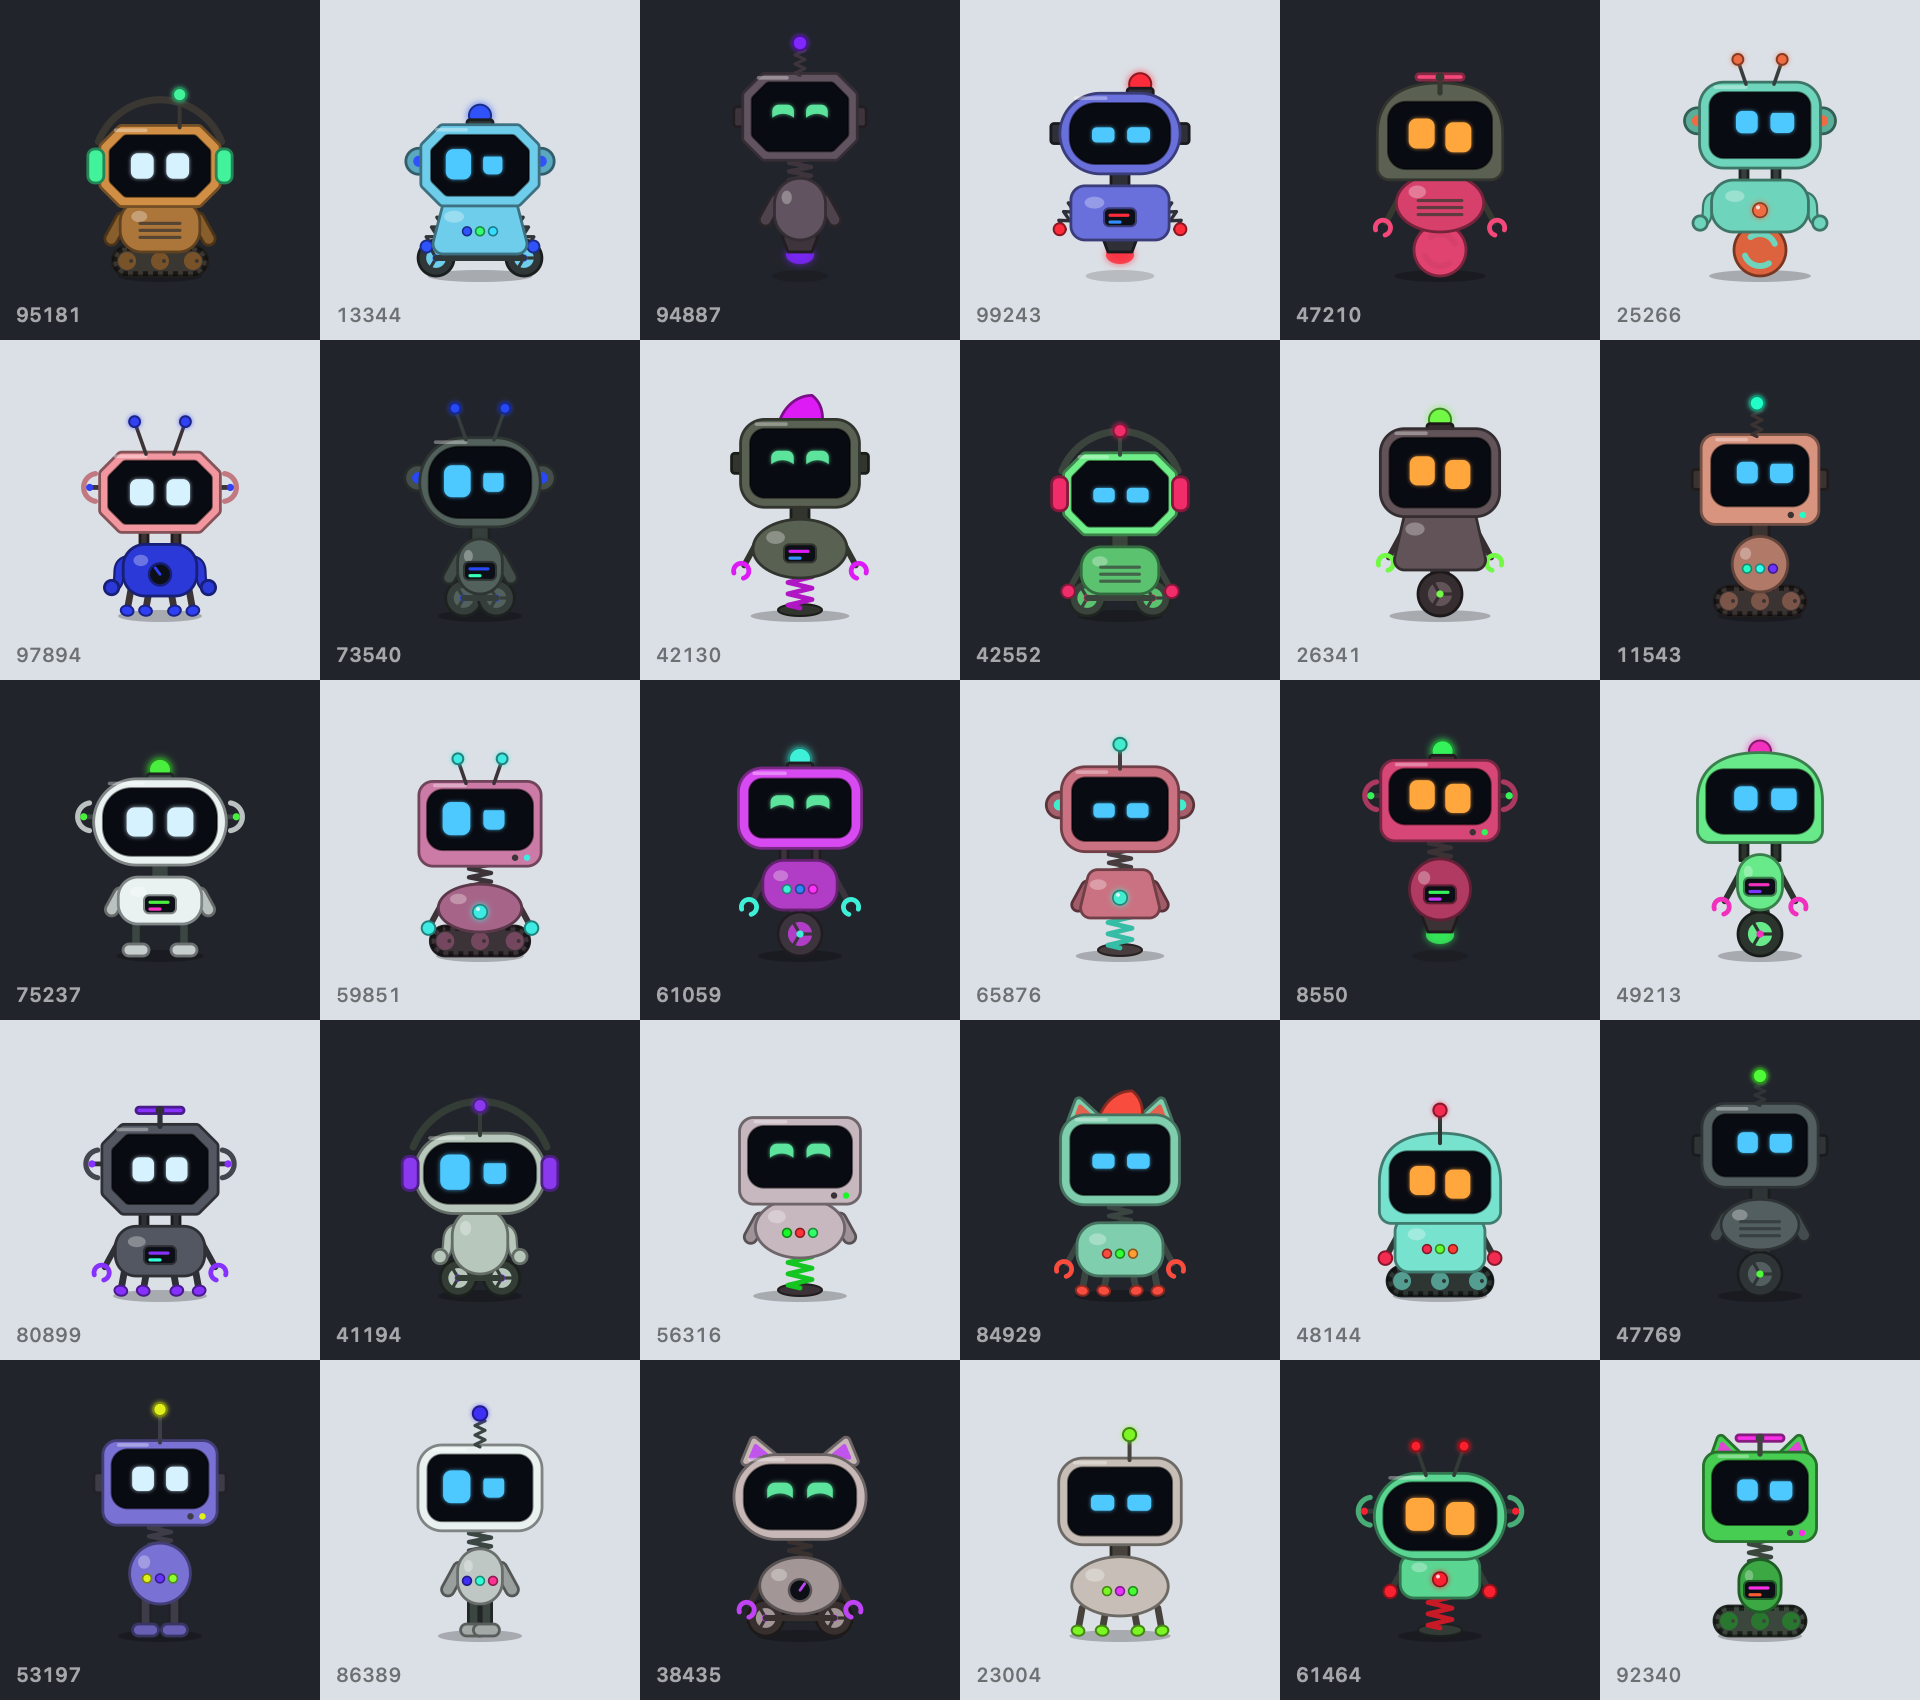
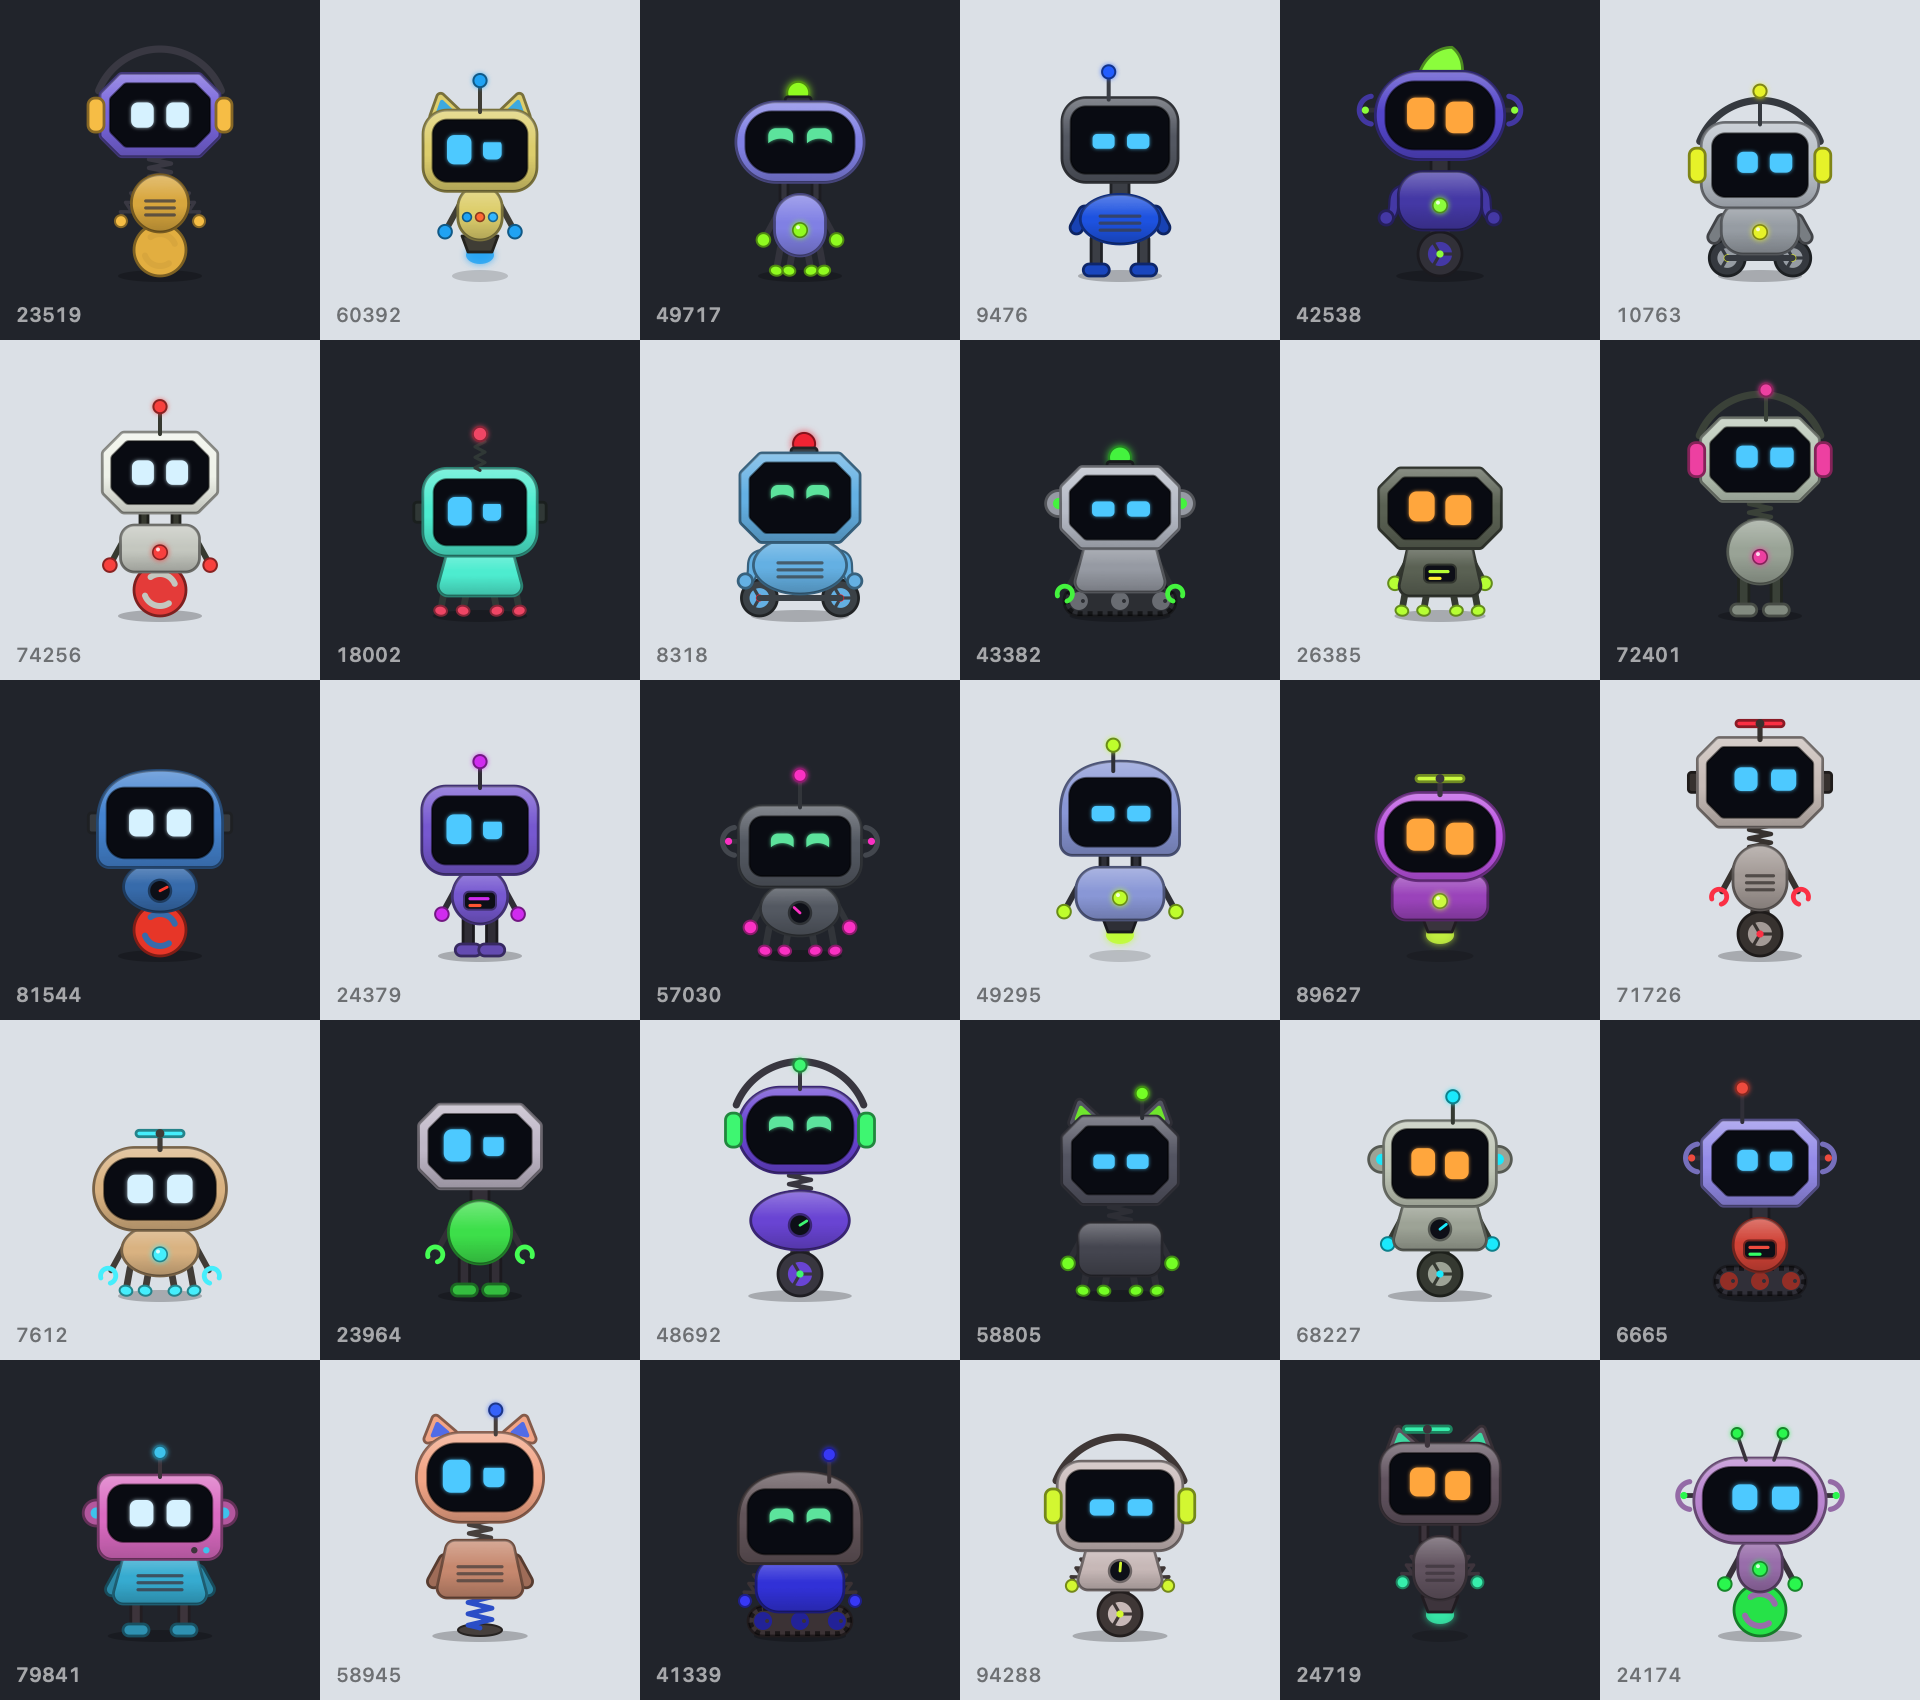
feat: light robots from above with a soft gradient

diff --git a/Sources/Robot.swift b/Sources/Robot.swift
@@ -289,6 +289,27 @@ final class RobotRig {
         return layer
     }
 
+    /// Light from above: lighter top, darker bottom, drawn once into a bitmap clipped to the part
+    private func shading(_ path: CGPath) -> CALayer {
+        let box = path.boundingBoxOfPath
+        let layer = CALayer()
+        layer.frame = box
+        let scale: CGFloat = 3
+        guard let ctx = CGContext(data: nil, width: Int(ceil(box.width * scale)), height: Int(ceil(box.height * scale)), bitsPerComponent: 8,
+                                  bytesPerRow: 0, space: CGColorSpace(name: CGColorSpace.sRGB)!,
+                                  bitmapInfo: CGImageAlphaInfo.premultipliedLast.rawValue) else { return layer }
+        ctx.scaleBy(x: scale, y: scale)
+        ctx.translateBy(x: -box.minX, y: -box.minY)
+        ctx.addPath(path)
+        ctx.clip()
+        let colors = [CGColor(gray: 1, alpha: 0.28), CGColor(gray: 1, alpha: 0), CGColor(gray: 0, alpha: 0), CGColor(gray: 0, alpha: 0.2)] as CFArray
+        if let gradient = CGGradient(colorsSpace: CGColorSpace(name: CGColorSpace.sRGB), colors: colors, locations: [0, 0.45, 0.55, 1]) {
+            ctx.drawLinearGradient(gradient, start: CGPoint(x: 0, y: box.maxY), end: CGPoint(x: 0, y: box.minY), options: [])
+        }
+        layer.contents = ctx.makeImage()
+        return layer
+    }
+
     /// Filled part with a darker outline
     private func part(_ path: CGPath, _ color: RobotColor, at p: CGPoint = .zero) -> CAShapeLayer {
         shape(path, fill: color.cg(), stroke: color.outline, at: p)
@@ -317,7 +338,7 @@ final class RobotRig {
 
         torso.position = CGPoint(x: 0, y: bodyY)
         hopper.addSublayer(torso)
-        let bw = g.bodySize.width, bh = g.bodySize.height
+        let bh = g.bodySize.height
 
         buildArms()
         let neckHeight: CGFloat
@@ -337,9 +358,9 @@ final class RobotRig {
             }
         }
 
-        torso.addSublayer(part(bodyPath(), g.bodyColor))
-        torso.addSublayer(shape(CGPath(ellipseIn: CGRect(x: -bw * 0.36, y: bh * 0.58, width: bw * 0.2, height: bh * 0.22), transform: nil),
-                                fill: CGColor(gray: 1, alpha: 0.3)))
+        let body = bodyPath()
+        torso.addSublayer(part(body, g.bodyColor))
+        torso.addSublayer(shading(body))
         buildChest()
 
         head.position = CGPoint(x: 0, y: bh + neckHeight)
@@ -613,8 +634,7 @@ final class RobotRig {
 
         let shell = headPath(CGRect(x: -hw / 2, y: 0, width: hw, height: hh), inset: 0)
         head.addSublayer(part(shell, g.headColor))
-        head.addSublayer(shape(capsule(CGRect(x: -hw / 2 + 7, y: hh - t / 2 - 0.9, width: hw * 0.28, height: 1.8)),
-                               fill: CGColor(gray: 1, alpha: g.headShape == .dome ? 0 : 0.35)))
+        head.addSublayer(shading(shell))
 
         let extraBottom: CGFloat = g.headShape == .crt ? 4 : 0
         let screenRect = CGRect(x: -hw / 2 + t, y: t + extraBottom, width: hw - 2 * t, height: hh - 2 * t - extraBottom)

diff --git a/CLAUDE.md b/CLAUDE.md
@@ -20,7 +20,7 @@ Claude Code hook events ─▶ ~/.claude/hooks/claude-state.sh ─▶ ~/.claude/
 - Performance: never draw the glow with a CPU shadow at 30 fps (it cost ~35% CPU). Robots, lab and settings previews use `FaceLayer`; the Dock tile is CPU-drawn but skips frames where `FaceFrame.isClose(to:)` (~5% CPU total).
 - `Sessions.swift`: `SessionRecord` (JSON), `Session` (mood/priority/French status text derived from state + event + tool + elapsed time), `SessionStore`.
 - Live status: Claude Code writes `status` (`busy | idle | waiting`), `waitingFor` and `statusUpdatedAt` (ms) to its registry `~/.claude/sessions/<pid>.json` whenever its UI changes. `Session.state` (and the hook's `resolveState`) correct the hook state with it: a dialog waiting for the user wins over hook events from subagents or parallel tools, and a `waiting` hook state followed by a later `busy`/`idle` means the user answered (no hook fires then). `waitingFor: "dialog open"` is a dialog the user opened (`/config`…), not Claude waiting.
-- `Robot.swift`: robot generator. `RobotGenome` = every varying part (locomotion, body, head, neck, top, sides, arms, chest, sizes, colors, speed, restlessness) drawn from a seed by `SeededRandom` (SplitMix64); a session's seed is `UInt64(stableHash:)` (FNV-1a) of its id, or the one stored in `robotSeeds` after « Nouveau robot ». `RobotRig` builds the `CAShapeLayer` tree once (pivot groups with tiny bounds centered on their origin, so they rotate around it; layers: canvas → shadow, `mount` (orientation ±π/2 for climbing, beam scale/fade) → `bot` (facing flip, animated turn) → `hopper` (hops) → `torso` → `head` + `FaceLayer`). Motions (`idle | walk | cheer | sleep | fall`) are repeating CA animations capped at 24 fps, run by the render server; idle is still apart from one-shot `fidget()`s. Fixed canvas 140×140, foot at (70, 10); `extent` = drawn bounds in foot coordinates.
+- `Robot.swift`: robot generator. `RobotGenome` = every varying part (locomotion, body, head, neck, top, sides, arms, chest, sizes, colors, speed, restlessness) drawn from a seed by `SeededRandom` (SplitMix64); a session's seed is `UInt64(stableHash:)` (FNV-1a) of its id, or the one stored in `robotSeeds` after « Nouveau robot ». `RobotRig` builds the `CAShapeLayer` tree once (pivot groups with tiny bounds centered on their origin, so they rotate around it; layers: canvas → shadow, `mount` (orientation ±π/2 for climbing, beam scale/fade) → `bot` (facing flip, animated turn) → `hopper` (hops) → `torso` → `head` + `FaceLayer`). Motions (`idle | walk | cheer | sleep | fall`) are repeating CA animations capped at 24 fps, run by the render server; idle is still apart from one-shot `fidget()`s. Body and head get a light-from-above gradient (`shading`: bitmap drawn once, clipped to the path, so `render(in:)` sheets show it too, unlike a mask). Fixed canvas 140×140, foot at (70, 10); `extent` = drawn bounds in foot coordinates.
 - `RobotWorld.swift`: screens (AppKit coordinates) and windows from `CGWindowListCopyWindowInfo` (layer 0, other apps, bounds only, no permission; CG y is flipped from the main screen's top). Surfaces: each screen's ground (`visibleFrame.minY`) and window tops with room above (below `visibleFrame.maxY`, minus the x ranges of windows in front). Walls: window sides reaching down to the surface with a free top at that corner. Horizontal neighbor screens share a ground only without a side Dock.
 - `RobotCrew.swift`: `RobotCrew` (one `RobotAgent` per session, a sleeping mascot when none unless hidden, spawn/leave by beaming, 30 Hz timer stopped when hidden or screens asleep, one CA transaction per tick, window list read only while a robot is perched, climbing or falling, at most every 0.25 s). `RobotAgent` state machine: idle → decide (rest, walk, climb a wall, jump off a window, cross or beam to another screen) by restlessness and mood (working moods move less, sleepy sleeps, waiting walks or beams to the pointer's screen and cheers, happy celebrates). Its `RobotPanel` is a stage covering the whole surface it walks on: a walk is one CA position animation inside it, the window only moves on surface changes, falls and drags; climbing uses a square stage around the wall. `RobotPanel` overrides `constrainFrameRect`: when ordered front, AppKit pushes a window overlapping the menu bar below it, and the ground stage of a screen above the main one hangs 10 pt over that bar (its robot then drew outside its window). Clicks: `ignoresMouseEvents` follows whether the pointer is over the robot's bounds (transparent parts let clicks through). `RobotBubble`: title + status above the robot on hover, while waiting and for 4 s after its session changes state (`Session.state`, checked with the mood at 5 Hz).
 - `RobotLab.swift`: `--render-robots` sheet and the robot lab window (menu bar « Labo des robots… », `--robot-lab`), whose timer runs only while it is open.
